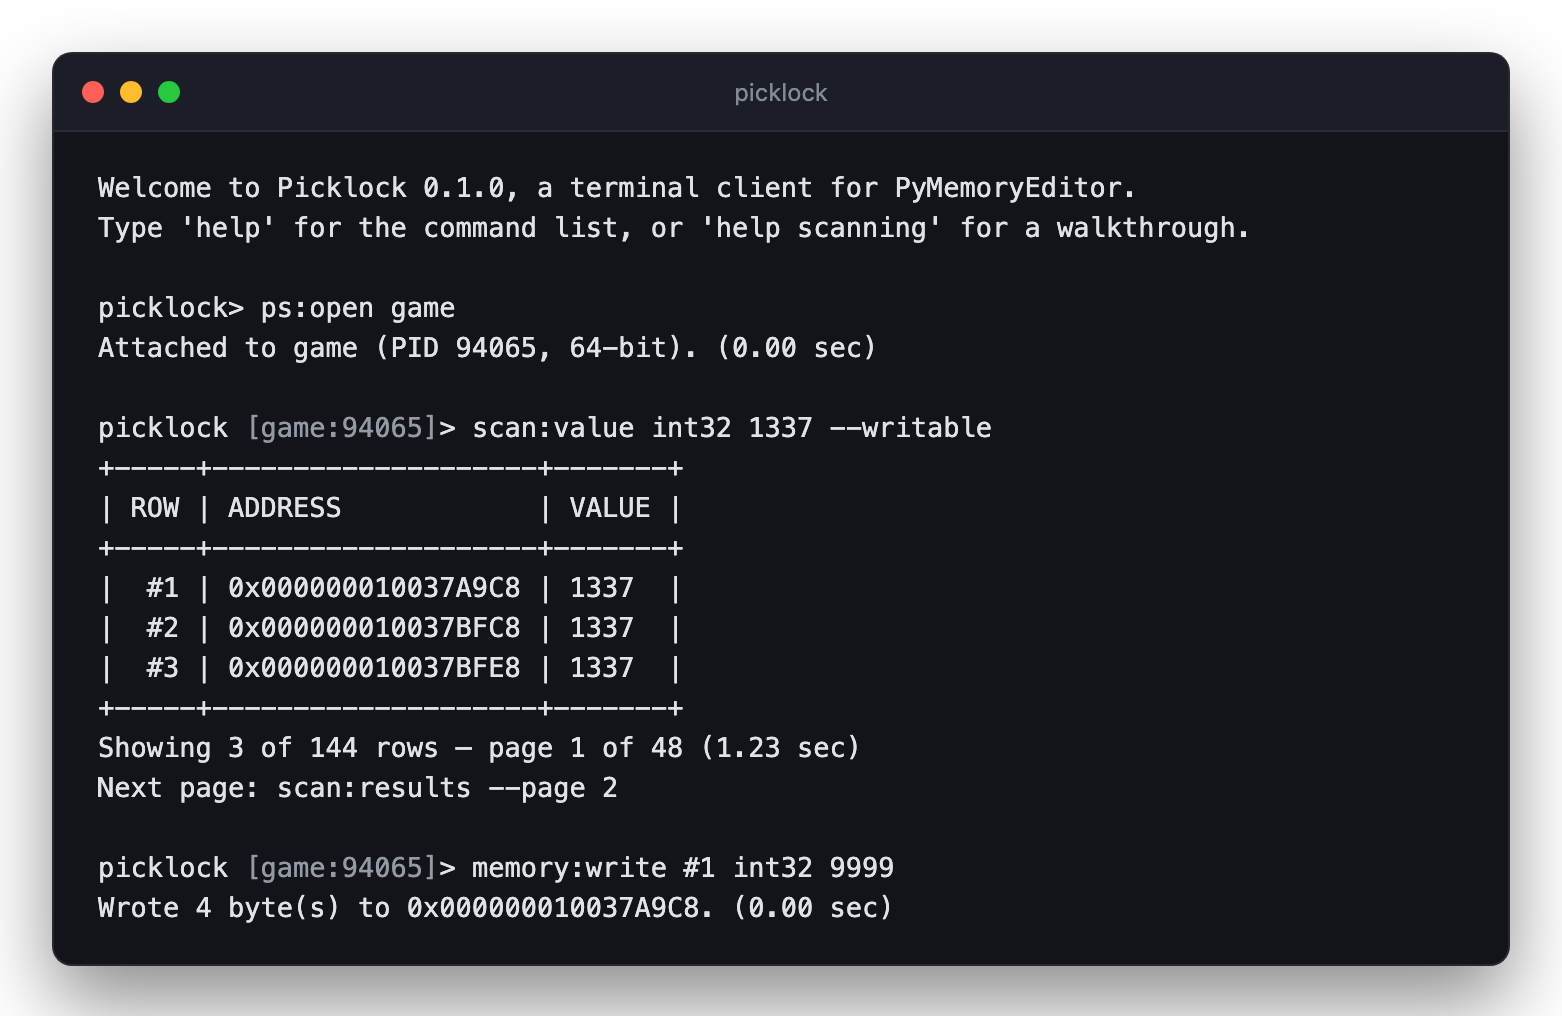
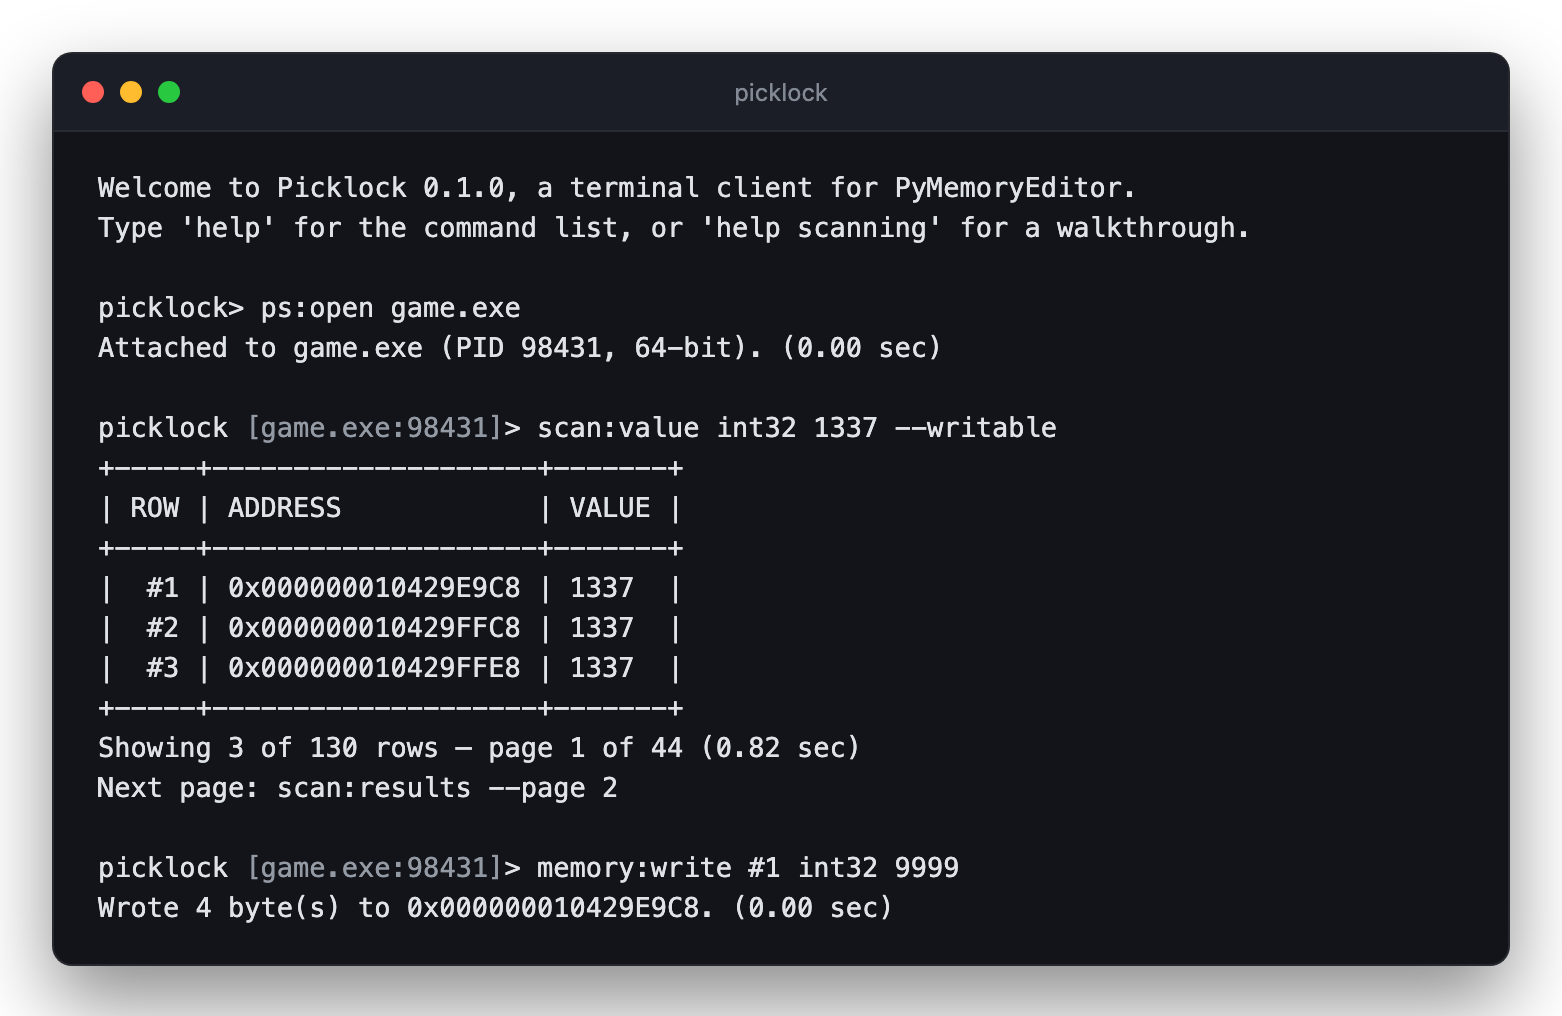
docs: name the demo process game.exe
Matches the walkthrough further down the README, and reads as a game process
at a glance the way a bare 'game' does not. The suffix costs nothing: the
name is the link's file name, so the kernel reports it wherever the capture
is recorded.

diff --git a/scripts/generate_terminal_image.py b/scripts/generate_terminal_image.py
@@ -64,9 +64,11 @@ sys.path.insert(0, str(REPO_ROOT))
 
 from picklock.shell import Shell  # noqa: E402  (must follow the env var above)
 
-#: The name the recording runs under. Short, lowercase and evocative of what
-#: people actually point a memory scanner at.
-DEMO_NAME = "game"
+#: The name the recording runs under — the shape of thing people actually
+#: point a memory scanner at, and the one the README's walkthrough uses. The
+#: suffix is only a file name: the link is made and run wherever this script
+#: runs, and the kernel reports the name it was given.
+DEMO_NAME = "game.exe"
 
 #: Passed to the renamed child to tell it where to leave the transcript.
 RECORD_FLAG = "--record-to"
